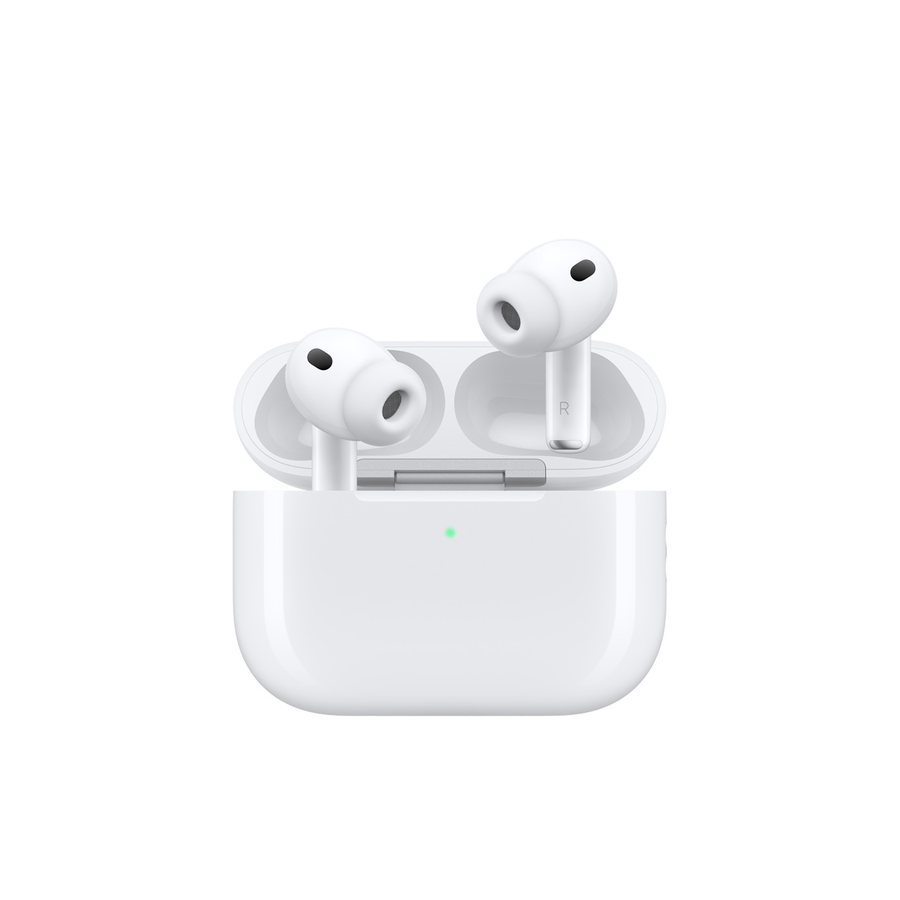
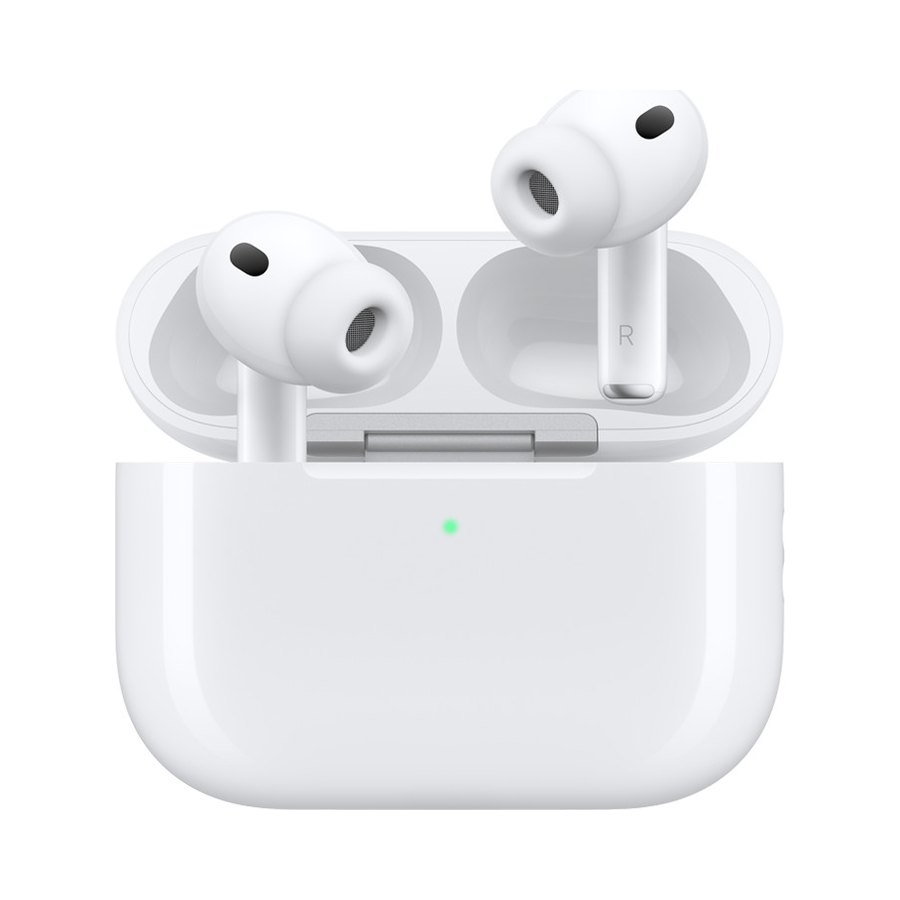
Arregla las tarjetas de producto: fotos estiradas y diminutas
Las tarjetas se veían como columnas altísimas con el producto flotando
chiquito en el medio. Dos causas:

- CSS: la regla global de imágenes tenía max-width:100% sin height:auto, así
  que el alto quedaba clavado en el atributo height="900" mientras el ancho
  bajaba al de la columna. Eso estiraba la caja e invalidaba el aspect-ratio,
  y object-fit:contain dejaba la foto reducida al centro.

- Imágenes: las fotos de la CDN de Apple traen mucho margen alrededor del
  producto, y las apaisadas (5120x2880) quedaron con bandas blancas al
  encajarlas en un cuadrado. El producto ocupaba entre el 10% y el 32% del
  cuadro; la Mac mini, un 10%.

Ahora se recorta el aire hasta el contenido real y se centra en un cuadrado
con margen parejo, con el producto al 80% del lado.

diff --git a/index.html b/index.html
@@ -29,7 +29,7 @@
 html{scroll-behavior:smooth}
 body{margin:0;background:var(--paper);color:var(--ink);font-family:var(--body);
      font-size:17px;line-height:1.6;-webkit-font-smoothing:antialiased}
-img,svg{max-width:100%;display:block}
+img,svg{max-width:100%;height:auto;display:block}
 a{color:inherit}
 
 .wrap{max-width:var(--wrap);margin:0 auto;padding:0 20px}
@@ -103,7 +103,7 @@ p{margin:0}
 @media(min-width:1000px){.grid{grid-template-columns:repeat(4,1fr)}}
 .card{background:var(--card);border:1px solid var(--rule);padding:12px;
       display:flex;flex-direction:column;gap:9px}
-.card img{aspect-ratio:1;object-fit:contain;background:#fff;width:100%}
+.card img{aspect-ratio:1;height:auto;object-fit:contain;background:#fff;width:100%}
 .card h3{font-size:.95rem;line-height:1.25}
 .card .spec{font-size:.76rem;color:var(--muted);margin-top:-4px}
 .card .price{font-family:var(--mono);font-weight:600;font-size:1.06rem;
